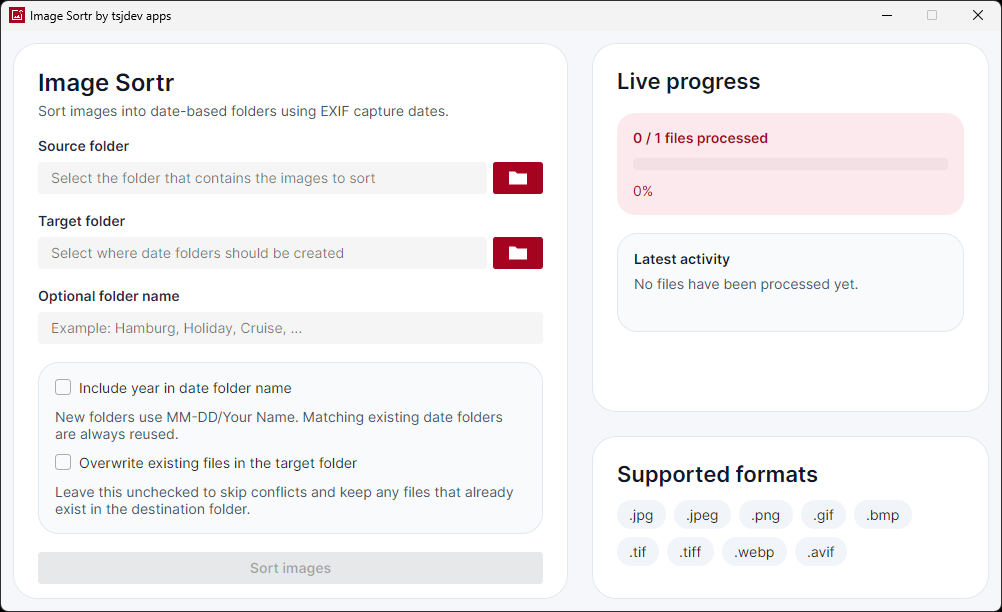
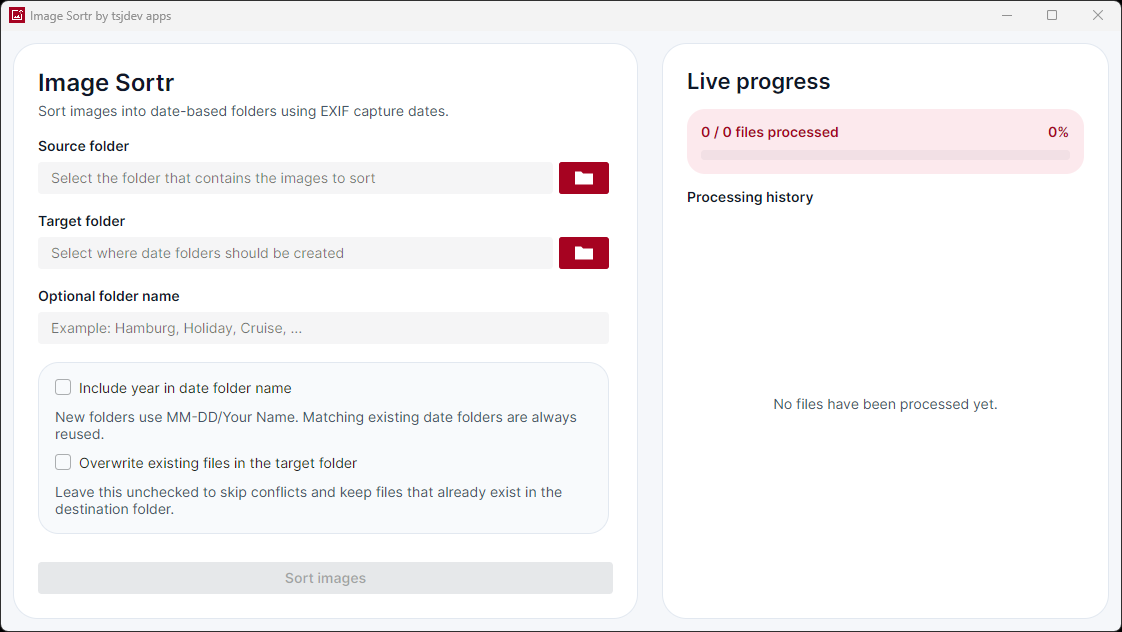
Update docs for history and localization
Refresh the project documentation to describe the processing history workflow, automatic English/German UI selection, OS light/dark theming, and the final summary behavior. This also updates the screenshots to match the current app experience and clarifies the project structure and test coverage.

diff --git a/README.md b/README.md
@@ -1,6 +1,6 @@
 # Image Sortr
 
-Image Sortr is a cross-platform desktop app for sorting entire folders of images into date-based folders without turning the task into a script. Built with Avalonia on .NET, it focuses on a practical batch workflow: choose a source folder, pick a target folder, optionally enter a folder name, choose whether to include the year, decide how conflicts should be handled, and copy organized images with live progress feedback.
+Image Sortr is a cross-platform desktop app for sorting entire folders of images into date-based folders without turning the task into a script. Built with Avalonia on .NET, it focuses on a practical batch workflow: choose a source folder, pick a target folder, optionally enter a folder name, choose whether to include the year, decide how conflicts should be handled, and copy organized images with a live per-file processing history.
 
 ![Illustrated header for Image Sortr](docs/header.jpg)
 
@@ -17,7 +17,11 @@ The project is aimed at everyday image-organization jobs such as sorting travel 
 - Reuse existing folders starting with `YYYY-MM-DD` or `MM-DD`
 - Send images without a usable date to `Unknown Date`
 - Skip or overwrite existing files
-- Track progress through live status updates and completion summaries
+- Track every processed file with sorted, overwritten, skipped, or failed status details
+- Keep the latest history entry visible automatically and clear the history before each new batch
+- Write a localized result summary to the processing history when a batch completes
+- Use English or German automatically based on the operating system UI language
+- Follow the operating system light or dark appearance
 - Support `.jpg`, `.jpeg`, `.png`, `.gif`, `.bmp`, `.tif`, `.tiff`, `.webp`, and `.avif`
 
 > Note: the current sorting workflow processes files from the selected input folder only. It does not recurse into nested subfolders.
@@ -34,13 +38,23 @@ The main screen keeps the workflow simple: select a source folder, choose a targ
 
 ![Image Sortr live progress while sorting images](docs/screenshot-02.png)
 
-While the batch is running, Image Sortr shows the overall progress, percentage, and latest file activity so you can see what the app is doing at a glance.
+While the batch is running, Image Sortr shows the overall file count and percentage alongside a scrollable processing history. Each completed file appears immediately with a status icon and label, plus its destination folder or a short explanation where applicable. The history automatically keeps the newest entry visible.
 
 ### Completion summary
 
 ![Image Sortr completion summary after sorting images](docs/screenshot-03.png)
 
-After the batch finishes, the latest activity panel shows the final copied, skipped, failed, and folder counts without forcing you into a separate report view.
+After the batch finishes, Image Sortr appends a compact summary to the processing history with sorted, overwritten, skipped, and failed counts. Starting another batch clears the previous history, summary, and progress values before new results are added.
+
+## Localization and Appearance
+
+Image Sortr includes English and German user interfaces. It selects the language from the operating system UI culture using standard .NET resource fallback:
+
+- German cultures such as `de-DE`, `de-AT`, and `de-CH` use German.
+- English cultures use English.
+- Unsupported languages fall back to English.
+
+The window follows the operating system light or dark theme. Both variants use the same Semi.Avalonia design language and application accent color.
 
 ## Sort Workflow
 
@@ -48,7 +62,7 @@ After the batch finishes, the latest activity panel shows the final copied, skip
 2. Choose where the sorted copies should be written.
 3. Optionally enter a name such as `Hamburg` or `Cruise` for a subfolder inside each date folder.
 4. Decide whether new date folders should include the year and whether existing files should be overwritten.
-5. Start the batch and follow the live progress panel.
+5. Start the batch and follow the overall progress and per-file processing history.
 
 Image Sortr reads files in deterministic, case-insensitive filename order. It copies files; the source folder is never renamed, moved, or otherwise modified.
 
@@ -155,9 +169,11 @@ dotnet test ImageSortr.slnx --configuration Release
 
 There is no separate lint command. Repository analyzers and code-style checks run as part of the build.
 
+The test projects use xUnit with Microsoft.Testing.Platform. The required runner is selected centrally in `global.json`, so the standard `dotnet test` command above is sufficient.
+
 ## Project Structure
 
-- `src/ImageSortr.App`: Avalonia desktop UI shell, theme, folder picker, and view model
+- `src/ImageSortr.App`: Avalonia desktop UI shell, localized resources, light/dark theme, folder picker, processing-history models, and view model
 - `src/ImageSortr.Core`: sorting pipeline, metadata dates, folder resolution, file handling, and result models
 - `tests/ImageSortr.Tests`: xUnit tests for the sorting service, folder resolution, date fallback, and window view model
 
@@ -174,7 +190,7 @@ The solution intentionally keeps the UI thin. Avalonia-specific code lives in th
 
 ## Quality
 
-The repository includes automated coverage for both the batch sorting service and the window view model. Tests verify EXIF priority and timestamp fallback behavior, deterministic folder matching, sanitization, non-recursive discovery, conflict handling, `Unknown Date` handling, progress reporting, and completion-state behavior.
+The repository includes automated coverage for both the batch sorting service and the window view model. Tests verify EXIF priority and timestamp fallback behavior, deterministic folder matching, sanitization, non-recursive discovery, conflict handling, `Unknown Date` handling, per-file progress reporting, history reset behavior, completion summaries, status representation, English and German resources, pluralized progress text, and English fallback for unsupported cultures.
 
 ## License
 
